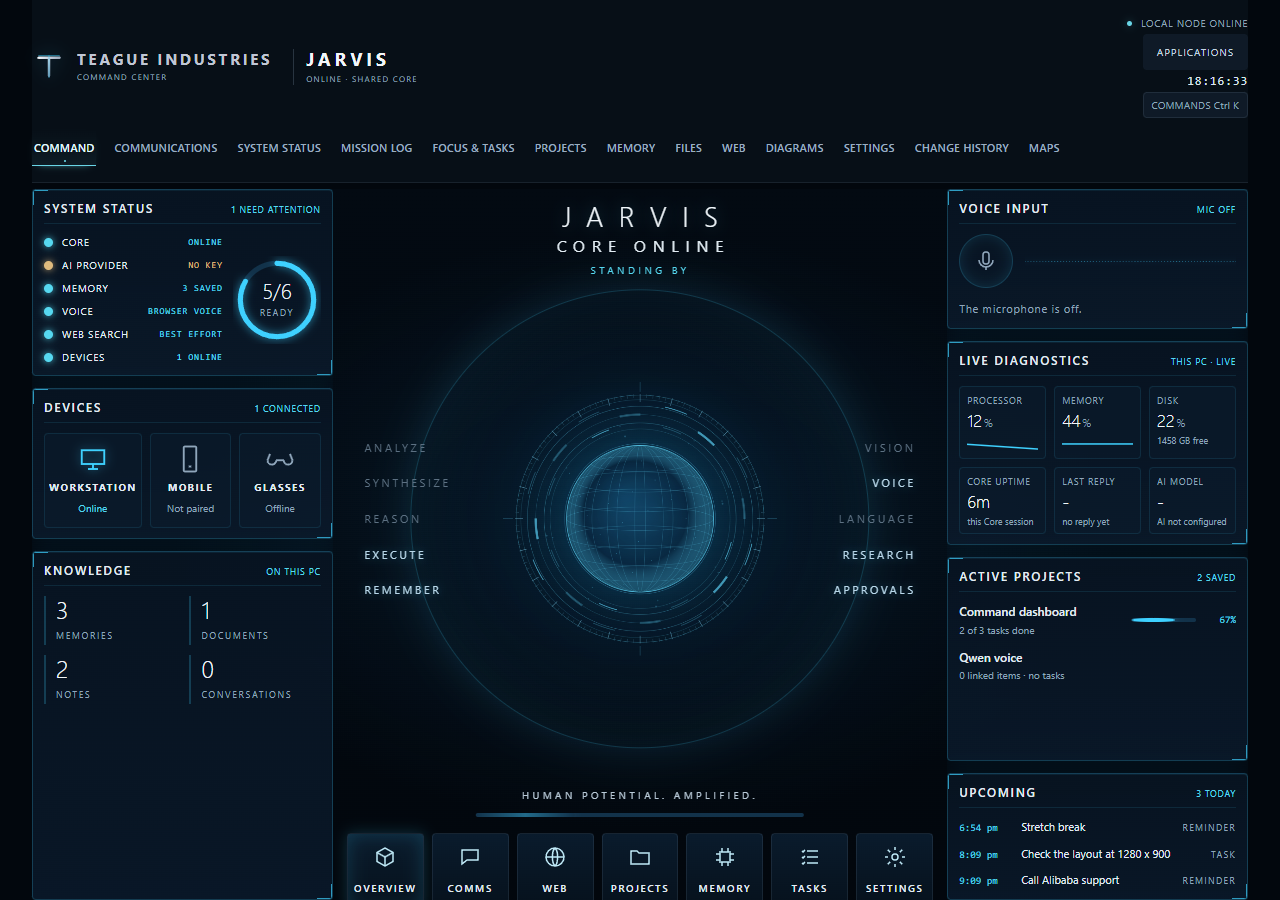
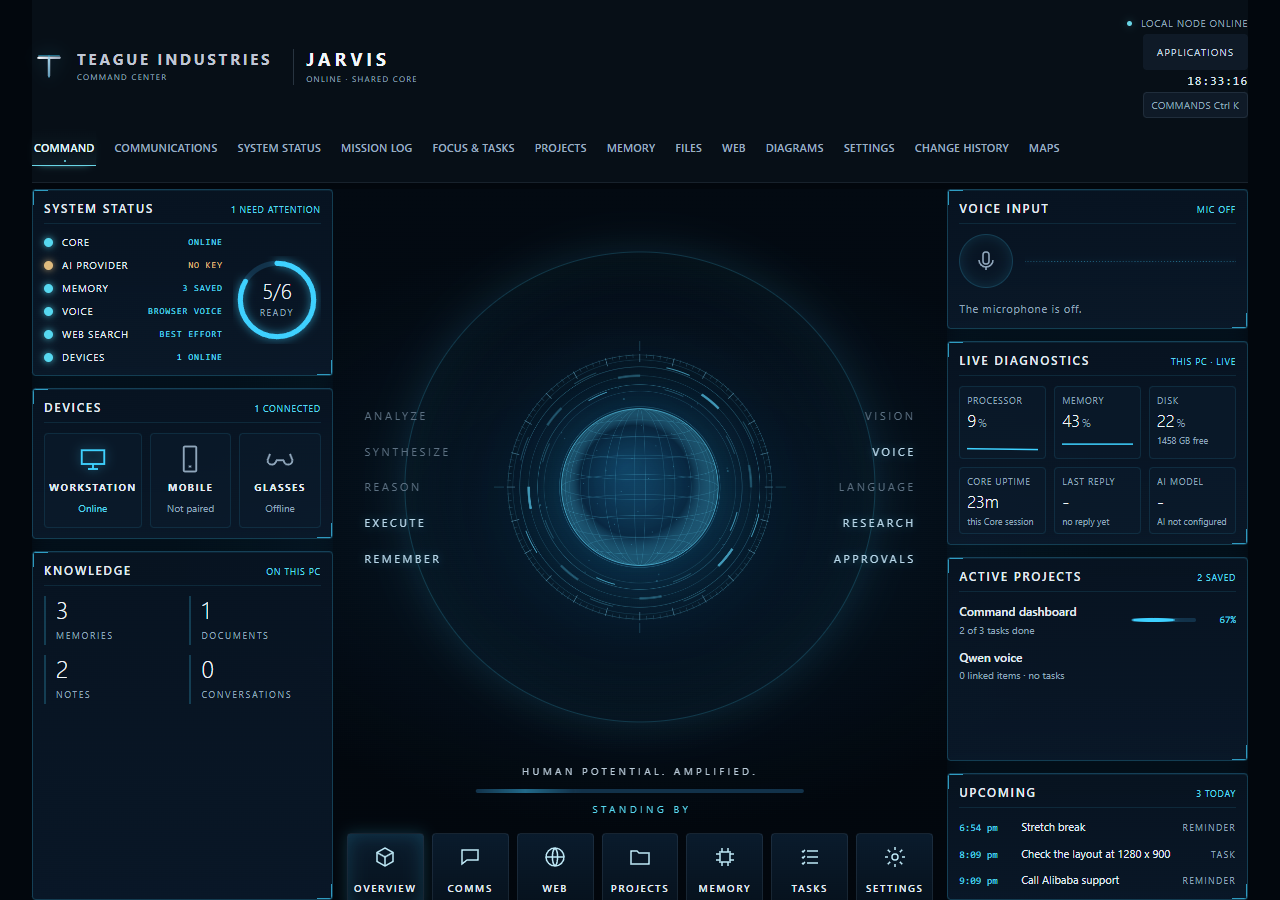
Command dashboard: owner asked to remove the centre title ('get rid of this'); the live mode moves under the activity bar; the core sits higher and larger; screenshots updated

diff --git a/static/command-dashboard.css b/static/command-dashboard.css
@@ -13,9 +13,9 @@ body[data-page=command] .shell:has(>#commandView:not(.hidden)) #commandView.cd-o
  grid-column:2;grid-row:2;align-self:stretch;justify-self:stretch;width:auto;height:auto;min-width:0;min-height:0;display:flex!important;align-items:center;justify-content:center}
 body[data-page=command] .shell:has(>#commandView:not(.hidden)) #commandView.cd-on:not(.hidden) .core-panel:not(.scroll-compact){width:100%!important;height:100%!important;
  background:radial-gradient(circle at 50% 50%,#1a6fa833 0,#0a2c4a22 30%,transparent 58%)!important}
-body[data-page=command] .shell:has(>#commandView:not(.hidden)) #commandView.cd-on:not(.hidden) .core-visual{top:52%;
- width:min(60%,calc((100cqh - 250px) * 1.1515))!important}
-#commandView.cd-on .core-panel:after{content:"";position:absolute;left:50%;top:52%;width:min(78%,calc((100cqh - 190px) * 1.02));aspect-ratio:1;
+body[data-page=command] .shell:has(>#commandView:not(.hidden)) #commandView.cd-on:not(.hidden) .core-visual{top:47%;
+ width:min(64%,calc((100cqh - 215px) * 1.1515))!important}
+#commandView.cd-on .core-panel:after{content:"";position:absolute;left:50%;top:47%;width:min(80%,calc(100cqh - 235px));aspect-ratio:1;
  transform:translate(-50%,-50%);border-radius:50%;border:1px solid var(--cd-line);box-shadow:0 0 40px #3ed1ff1f,inset 0 0 60px #3ed1ff12;pointer-events:none}
 
 /* Header band */
@@ -80,12 +80,9 @@ body[data-page=command] .shell:has(>#commandView:not(.hidden)) #commandView.cd-o
 
 /* Centre overlay */
 .cd-core-frame{grid-column:2;grid-row:2;align-self:stretch;justify-self:stretch;position:relative;pointer-events:none;z-index:2;min-height:0}
-.cd-core-title{position:absolute;left:50%;top:2%;transform:translateX(-50%);text-align:center;white-space:nowrap}
-.cd-core-title b{display:block;font:300 28px/1 var(--sans,'Segoe UI',Arial,sans-serif);letter-spacing:.55em;margin-right:-.55em;color:#f1f7fb;text-shadow:0 0 16px #3ed1ff55}
-.cd-core-title strong{display:block;margin-top:8px;font:400 16px/1 var(--sans,'Segoe UI',Arial,sans-serif);letter-spacing:.42em;margin-right:-.42em;color:var(--cd-text)}
-.cd-core-title small{display:block;margin-top:8px;font-size:10px;letter-spacing:.34em;color:var(--cd-ok)}
-.cd-core-title.offline strong{color:var(--cd-warn)}
-.cd-labels{position:absolute;top:52%;transform:translateY(-50%);list-style:none;margin:0;padding:0;display:grid;gap:18px}
+.cd-mode{margin:8px 0 0;font-size:10px;letter-spacing:.34em;margin-right:-.34em;color:var(--cd-ok)}
+.cd-mode.offline{color:var(--cd-warn)}
+.cd-labels{position:absolute;top:47%;transform:translateY(-50%);list-style:none;margin:0;padding:0;display:grid;gap:18px}
 .cd-labels.left{left:3%;text-align:left}.cd-labels.right{right:3%;text-align:right}
 .cd-labels li{font-size:11px;letter-spacing:.24em;color:#b9d8ea;text-shadow:0 0 8px #3ed1ff55}
 .cd-labels li.off{color:var(--cd-off);text-shadow:none}
@@ -155,6 +152,6 @@ body[data-page=command] .shell:has(>#commandView:not(.hidden)) #commandView.cd-o
  .cd-left,.cd-right,.cd-header .cd-facts{display:none}.cd-header{grid-template-columns:1fr auto}}
 @media (max-height:760px){.cd-header{display:none}.cd-tiles button{padding:7px 4px 6px}.cd-tiles button svg{width:18px;height:18px}
  .cd-quote,.cd-note{display:none}}
-@media (max-height:640px){.cd-core-title small,.cd-core-foot small{display:none}.cd-core-title b{font-size:20px}.cd-core-title strong{font-size:12px;margin-top:5px}}
+@media (max-height:640px){.cd-core-foot small{display:none}.cd-mode{margin-top:5px}}
 @media (max-width:820px){.cd-labels{display:none}.cd-tiles{grid-template-columns:repeat(4,minmax(0,1fr))}.cd-tiles button:nth-child(n+5){display:none}}
 @media (prefers-reduced-motion:reduce){.cd-activity i{animation:none!important}.cd-ring .value{transition:none}}

diff --git a/static/command-dashboard.js b/static/command-dashboard.js
@@ -76,13 +76,12 @@
   const [upcomingPanel, upcomingMeta] = panel('Upcoming', 'cd-fixed'); const upcoming = el('ul', 'cd-list'); upcomingPanel.append(upcoming);
   right.append(voicePanel, diagPanel, projectPanel, upcomingPanel);
 
-  const frame = el('div', 'cd-core-frame'); frame.setAttribute('aria-live', 'polite');
-  const coreTitle = el('div', 'cd-core-title'); const coreLine = el('strong'); const coreMode = el('small');
-  coreTitle.append(el('b', '', 'JARVIS'), coreLine, coreMode);
+  const frame = el('div', 'cd-core-frame');
   const labelsLeft = el('ul', 'cd-labels left'); const labelsRight = el('ul', 'cd-labels right');
   const foot = el('div', 'cd-core-foot'); const activity = el('div', 'cd-activity'); activity.append(el('i'));
-  foot.append(el('small', '', 'HUMAN POTENTIAL. AMPLIFIED.'), activity);
-  frame.append(coreTitle, labelsLeft, labelsRight, foot);
+  const coreMode = el('p', 'cd-mode'); coreMode.setAttribute('aria-live', 'polite');
+  foot.append(el('small', '', 'HUMAN POTENTIAL. AMPLIFIED.'), activity, coreMode);
+  frame.append(labelsLeft, labelsRight, foot);
 
   const tiles = el('nav', 'cd-tiles'); tiles.setAttribute('aria-label', 'Sections');
   for (const [name, target, label] of TILES) {
@@ -139,10 +138,9 @@
     knowledge.replaceChildren(...[['memory', 'Memories'], ['documents', 'Documents'], ['notes', 'Notes'], ['conversations', 'Conversations']].map(([key, label]) => {
       const box = el('div'); box.append(el('b', '', count(key)), el('small', '', label)); return box; }));
 
-    coreTitle.classList.toggle('offline', !online);
-    coreLine.textContent = online ? 'CORE ONLINE' : 'CORE OFFLINE';
     const mode = (typeof state !== 'undefined' && state.mode) || 'standby';
-    coreMode.textContent = MODES[mode] || mode.toUpperCase();
+    coreMode.classList.toggle('offline', !online);
+    coreMode.textContent = online ? MODES[mode] || mode.toUpperCase() : 'CORE OFFLINE';
     activity.className = 'cd-activity ' + mode;
     const label = ([text, on]) => el('li', on ? '' : 'off', text);
     labelsLeft.replaceChildren(...[['ANALYZE', !!caps.vision], ['SYNTHESIZE', aiOk], ['REASON', aiOk], ['EXECUTE', online], ['REMEMBER', !!d]].map(label));
